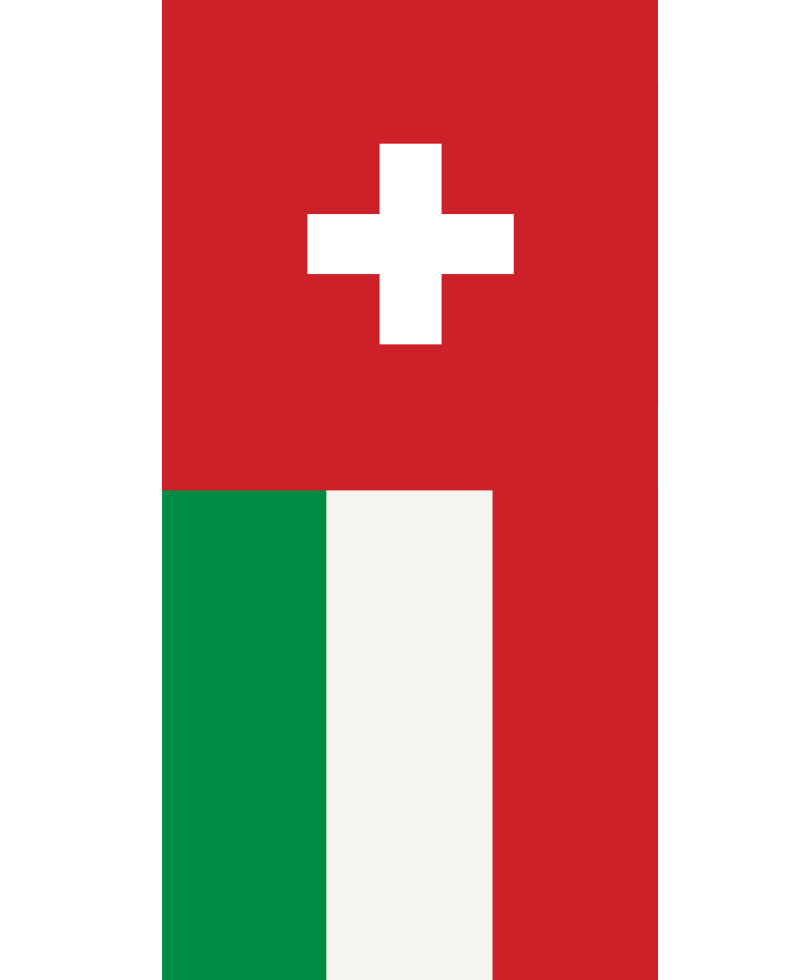
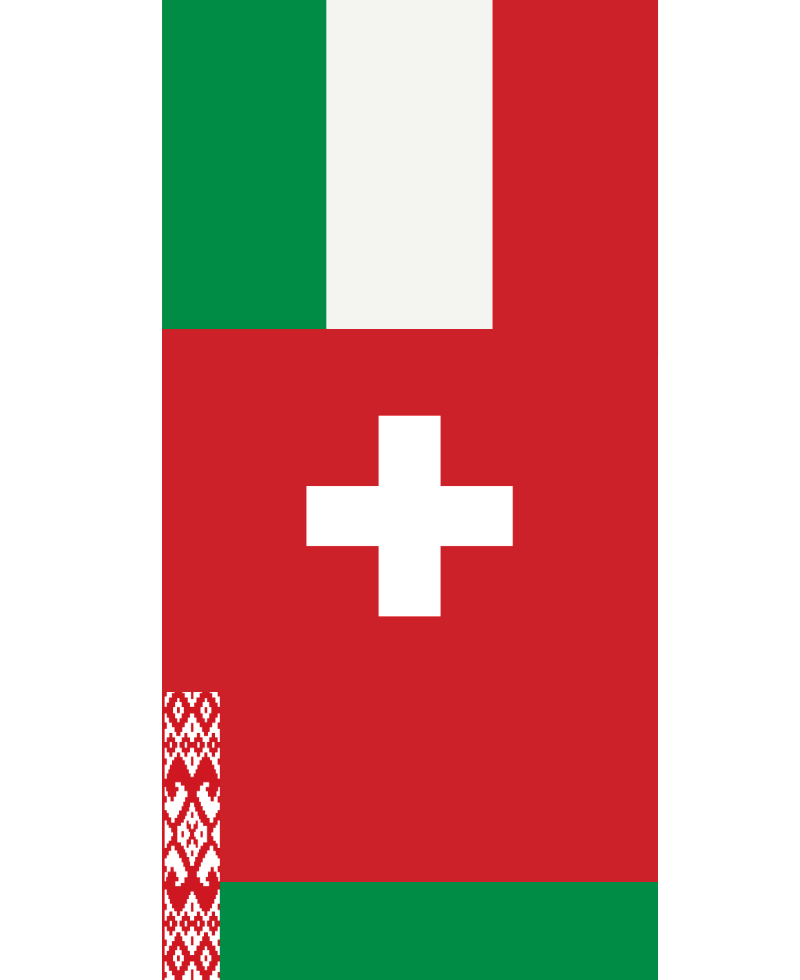
minor changes

diff --git a/bioeticgoods/components/About.tsx b/bioeticgoods/components/About.tsx
@@ -28,8 +28,8 @@ export default function About() {
 
   const modalInfo: ModalType = {
     eaeu: {
-      header: 'Import from EAEU to EU',
-      text: 'We import our goods and products from EAEU to EU.',
+      header: 'Import from EAEU to EU/CH',
+      text: 'We are involved in the import, wholesale and promotion of products from EAEU manufacturers to European and Swiss markets. We create partnerships, provide regulatory and procedural, logistical and marketing support for products and for all business activities up to the final consumer. Manufacturers use us to distribute their brands effectively and easily.',
     },
     fresh: {
       header: 'Fresh from our suppliers',
@@ -48,8 +48,8 @@ export default function About() {
       text: 'Our goods are grown under strict conditions and reviewed by our quality assurance team upon arrival.',
     },
     euea: {
-      header: 'Import from EU to EAEU',
-      text: 'We import our goods and products from EU to EAEU.',
+      header: 'Import from EU/CH to EAEU',
+      text: 'We are involved in the import, wholesale and promotion of products from Swiss and European manufacturers to EAEU market. We create partnerships, provide regulatory and procedural, logistical and marketing support for products and for all business activities up to the final consumer. Manufacturers use us to distribute their brands effectively and easily.',
     },
   };
 
@@ -91,7 +91,8 @@ export default function About() {
               <span className="font-semibold text-gray-800">our suppliers</span>
             </p>
             <p className="text-center xsm:w-full sm:w-3/4 lg:w-full mx-auto font-light xsm:text-xs lg:text-sm mt-2 text-gray-600">
-              Lorem ipsum dolor sit amet consectetur adipisicing elit.
+              We picking the best suppliers from all regions to ensure a high
+              standard for all our products.
             </p>
             <div className="text-center mt-4">
               <button
@@ -115,7 +116,8 @@ export default function About() {
               <span className="font-semibold text-gray-800">organic goods</span>
             </p>
             <p className="text-center xsm:w-full sm:w-3/4 lg:w-full mx-auto font-light xsm:text-xs lg:text-sm mt-2 text-gray-600">
-              Lorem ipsum dolor sit amet consectetur adipisicing elit.
+                 Our 100% organic-marked goods obey to a set standard regarding
+              organic production.
             </p>
             <div className="text-center mt-4">
               <button
@@ -139,7 +141,8 @@ export default function About() {
               <span className="font-semibold text-gray-800">quality</span>
             </p>
             <p className="text-center xsm:w-full sm:w-3/4 lg:w-full mx-auto font-light xsm:text-xs lg:text-sm mt-2 text-gray-600">
-              Lorem ipsum dolor sit amet consectetur adipisicing elit.
+              We constantly audit our suppliers and refresh the selection of our
+              goods to ensure premium quality.
             </p>
             <div className="text-center mt-4">
               <button
@@ -162,7 +165,8 @@ export default function About() {
               100% <span className="font-semibold text-gray-800">natural</span>
             </p>
             <p className="text-center xsm:w-full sm:w-3/4 lg:w-full mx-auto font-light xsm:text-xs lg:text-sm mt-2 text-gray-600">
-              Lorem ipsum dolor sit amet consectetur adipisicing elit.
+              Our 100% natural-marked goods are produced under strict conditions
+              and reviewed by our quality assurance team upon arrival.
             </p>
             <div className="text-center mt-4">
               <button
@@ -186,15 +190,15 @@ export default function About() {
               ></img>
               <img
                 className="xsm:w-1/2 sm:w-1/3 lg:w-28 p-2"
-                src="/images/eu.png"
+                src="/images/euSwiss.png"
               ></img>
             </div>
             <p className="text-center mt-4 text-gray-600 font-light xsm:text-sm lg:text-base">
-              We import from{' '}
-              <span className="font-semibold text-gray-800">EAEU to EU</span>
+              Import from{' '}
+              <span className="font-semibold text-gray-800">EAEU to EU/CH</span>
             </p>
             <p className="text-center xsm:w-full sm:w-3/4 lg:w-full mx-auto font-light xsm:text-xs lg:text-sm mt-2 text-gray-600">
-              Lorem ipsum dolor sit amet consectetur adipisicing elit.
+              We import our goods and products from EAEU to EU/CH.
             </p>
             <div className="text-center mt-4">
               <button
@@ -216,7 +220,7 @@ export default function About() {
             <div className="flex flex-row justify-center">
               <img
                 className="xsm:w-1/2 sm:w-1/3 lg:w-28 p-2"
-                src="/images/eu.png"
+                src="/images/euSwiss.png"
               ></img>
               <img
                 className="xsm:w-1/2 sm:w-1/3 lg:w-28 p-2"
@@ -224,11 +228,11 @@ export default function About() {
               ></img>
             </div>
             <p className="text-center mt-4 text-gray-600 font-light xsm:text-sm lg:text-base">
-              We import from{' '}
-              <span className="font-semibold text-gray-800">EU to EAEU</span>
+              Import from{' '}
+              <span className="font-semibold text-gray-800">EU/CH to EAEU</span>
             </p>
             <p className="text-center xsm:w-full sm:w-3/4 lg:w-full mx-auto font-light xsm:text-xs lg:text-sm mt-2 text-gray-600">
-              Lorem ipsum dolor sit amet consectetur adipisicing elit.
+              We import our goods and products from EU/CH to EAEU.
             </p>
             <div className="text-center mt-4">
               <button

diff --git a/bioeticgoods/components/Hero.tsx b/bioeticgoods/components/Hero.tsx
@@ -55,8 +55,8 @@ export default function Hero() {
           </p>
           <p className="font-light w-3/4 xsm:text-sm lg:text-base text-gray-600 mt-8">
             Hello and welcome to Bio Etic Goods. We act as a broker and
-            distributor in the food and beverage sector. We specialize in frozen
-            products, spirits, spices and herbs.
+            distributor in the food and beverage sector. We specialize in dry,
+            fresh and frozen products, wine and spirits, spices and herbs.
           </p>
           <div className="mt-4">
             <button
@@ -89,10 +89,6 @@ export default function Hero() {
               We operate in the following regions:
             </p>
             <div className="flex flex-row mt-1">
-              <img
-                className="w-10 border border-white select-none"
-                src="/images/united.png"
-              ></img>
               <img
                 className="w-10  border border-white ml-1 select-none"
                 src="/images/swiss.png"
@@ -127,27 +123,32 @@ export default function Hero() {
           <motion.img
             variants={item}
             className="absolute top-0"
-            src="/images/foodmid1.png"
+            src="/images/tableItem1.png"
           ></motion.img>
           <motion.img
             variants={item2}
             className="absolute top-0"
-            src="/images/foodmid2.png"
+            src="/images/tableItem2.png"
           ></motion.img>
           <motion.img
             variants={item}
             className="absolute top-0"
-            src="/images/foodmid3.png"
+            src="/images/tableItem3.png"
           ></motion.img>
           <motion.img
             variants={item2}
             className="absolute top-0"
-            src="/images/doughnut.png"
+            src="/images/tableItem4.png"
           ></motion.img>
           <motion.img
             variants={item}
             className="absolute top-0"
-            src="/images/beverages1.png"
+            src="/images/tableItem5.png"
+          ></motion.img>
+          <motion.img
+            variants={item}
+            className="absolute top-0"
+            src="/images/tableItem6.png"
           ></motion.img>
         </motion.div>
       </div>

diff --git a/bioeticgoods/components/Menu.tsx b/bioeticgoods/components/Menu.tsx
@@ -24,7 +24,7 @@ export default function Menu() {
                   <span className="sr-only">BioEticGoods</span>
                   <img
                     className="lg:h-8 xsm:h-8 md:h-6 md:w-20 lg:w-auto sm:h-10 select-none"
-                    src="/images/beglogo.png"
+                    src="/images/beglogo.svg"
                     alt=""
                   />
                 </a>

diff --git a/bioeticgoods/components/Footer.tsx b/bioeticgoods/components/Footer.tsx
@@ -243,7 +243,7 @@ export default function Footer() {
             <div className="flex flex-row">
               <img
                 className="h-8 w-auto self-center"
-                src="/images/beglogo.png"
+                src="/images/beglogo.svg"
                 alt="Logo"
               />
             </div>

diff --git a/bioeticgoods/components/LanguageSelector.tsx b/bioeticgoods/components/LanguageSelector.tsx
@@ -30,7 +30,7 @@ const languages = [
   },
   {
     name: 'Français',
-    description: 'changer la langue en français',
+    description: 'Changer la langue en français',
     href: '##',
     icon: '/images/france.png',
   },
